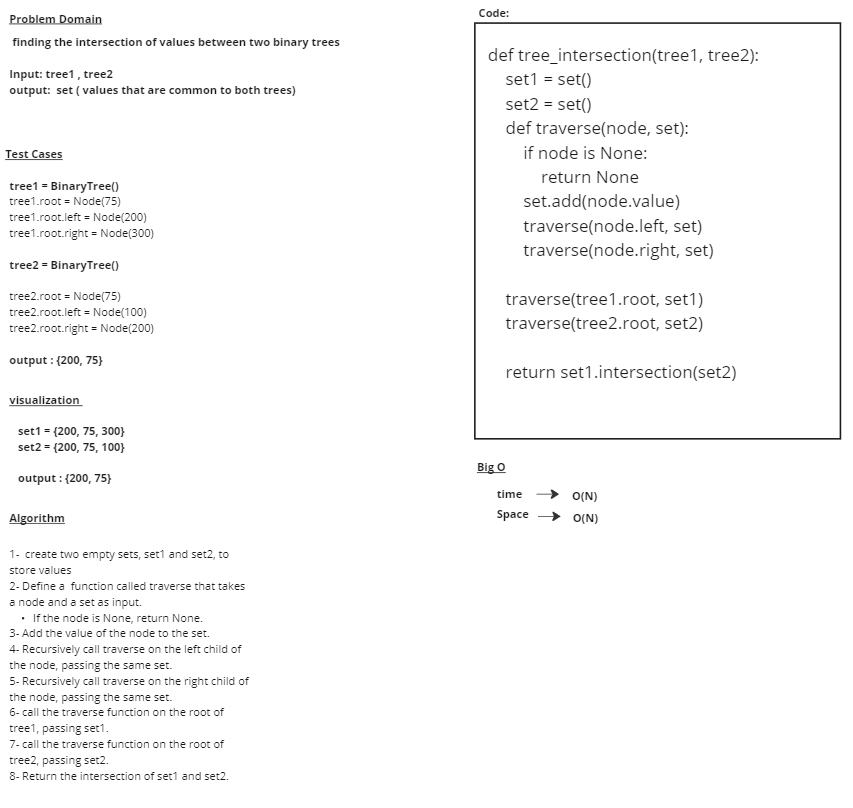
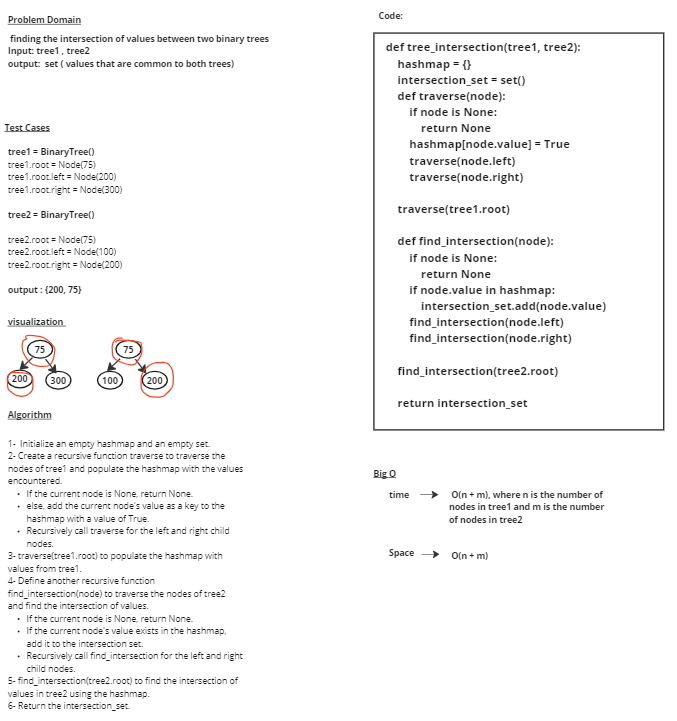
- [ ] Top-level README “Table of Contents” is updated  - [ ] README for this challenge is complete        - [ ] Summary, Description, Approach & Efficiency, Solution        - [ ] Picture of whiteboard        - [ ] Link to code  - [ ] Feature tasks for this challenge are completed  - [ ] Unit tests w

diff --git a/cc32/tree_intersection/tree_intersection.py b/cc32/tree_intersection/tree_intersection.py
@@ -6,29 +6,36 @@ class Node:
 
 
 def tree_intersection(tree1, tree2):
-    set1 = set()
-    set2 = set()
+    hashmap = {}
+    intersection_set = set()
 
-    def traverse(node, set):
+    def traverse(node):
         if node is None:
             return None
-        set.add(node.value)
-        traverse(node.left, set)
-        traverse(node.right, set)
+        hashmap[node.value] = True
+        traverse(node.left)
+        traverse(node.right)
 
-    traverse(tree1.root, set1)
-    traverse(tree2.root, set2)
+    traverse(tree1.root)
 
-    # print(set1)
-    # print(set2)
+    def find_intersection(node):
+        if node is None:
+            return None
+        if node.value in hashmap:
+            intersection_set.add(node.value)
+        find_intersection(node.left)
+        find_intersection(node.right)
 
-    return set1.intersection(set2)
+    find_intersection(tree2.root)
+    
+    return intersection_set
 
 
 
 class BinaryTree:
     def __init__(self):
         self.root = None
+
         
 
 

diff --git a/cc32/README.md b/cc32/README.md
@@ -4,21 +4,25 @@
 # Whiteboard Process
 
 ![img](./cc_32.png)
+![tests](../tests/test_cc32.py)
 
 
 # Approach & Efficiency
-### create two empty sets, set1 and set2, to store values
-### Define a  function called traverse that takes a node and a set as input.
-    - If the node is None, return None.
-### Add the value of the node to the set.
-### Recursively call traverse on the left child of the node, passing the same set.
-### Recursively call traverse on the right child of the node, passing the same set.
-### call the traverse function on the root of tree1, passing set1.
-### call the traverse function on the root of tree2, passing set2.
-### Return the intersection of set1 and set2.
+### Initialize an empty hashmap and an empty set.
+### Create a recursive function traverse to traverse the nodes of tree1 and populate the hashmap with the values encountered.
+    If the current node is None, return None.
+    else, add the current node's value as a key to the hashmap with a value of True.
+    Recursively call traverse for the left and right child nodes.
+### traverse(tree1.root) to populate the hashmap with values from tree1.
+### Define another recursive function find_intersection(node) to traverse the nodes of tree2 and find the intersection of values.
+    If the current node is None, return None.
+   If the current node's value exists in the hashmap, add it to the intersection set.
+   Recursively call find_intersection for the left and right child nodes.
+### find_intersection(tree2.root) to find the intersection of values in tree2 using the hashmap.
+### Return the intersection_set.
 
-## time --> O(N)
-## Space --> O(N) 
+## time --> O(n + m), where n is the number of nodes in tree1 and m is the number of nodes in tree2
+## Space -->  O(n + m)
 
 
 
